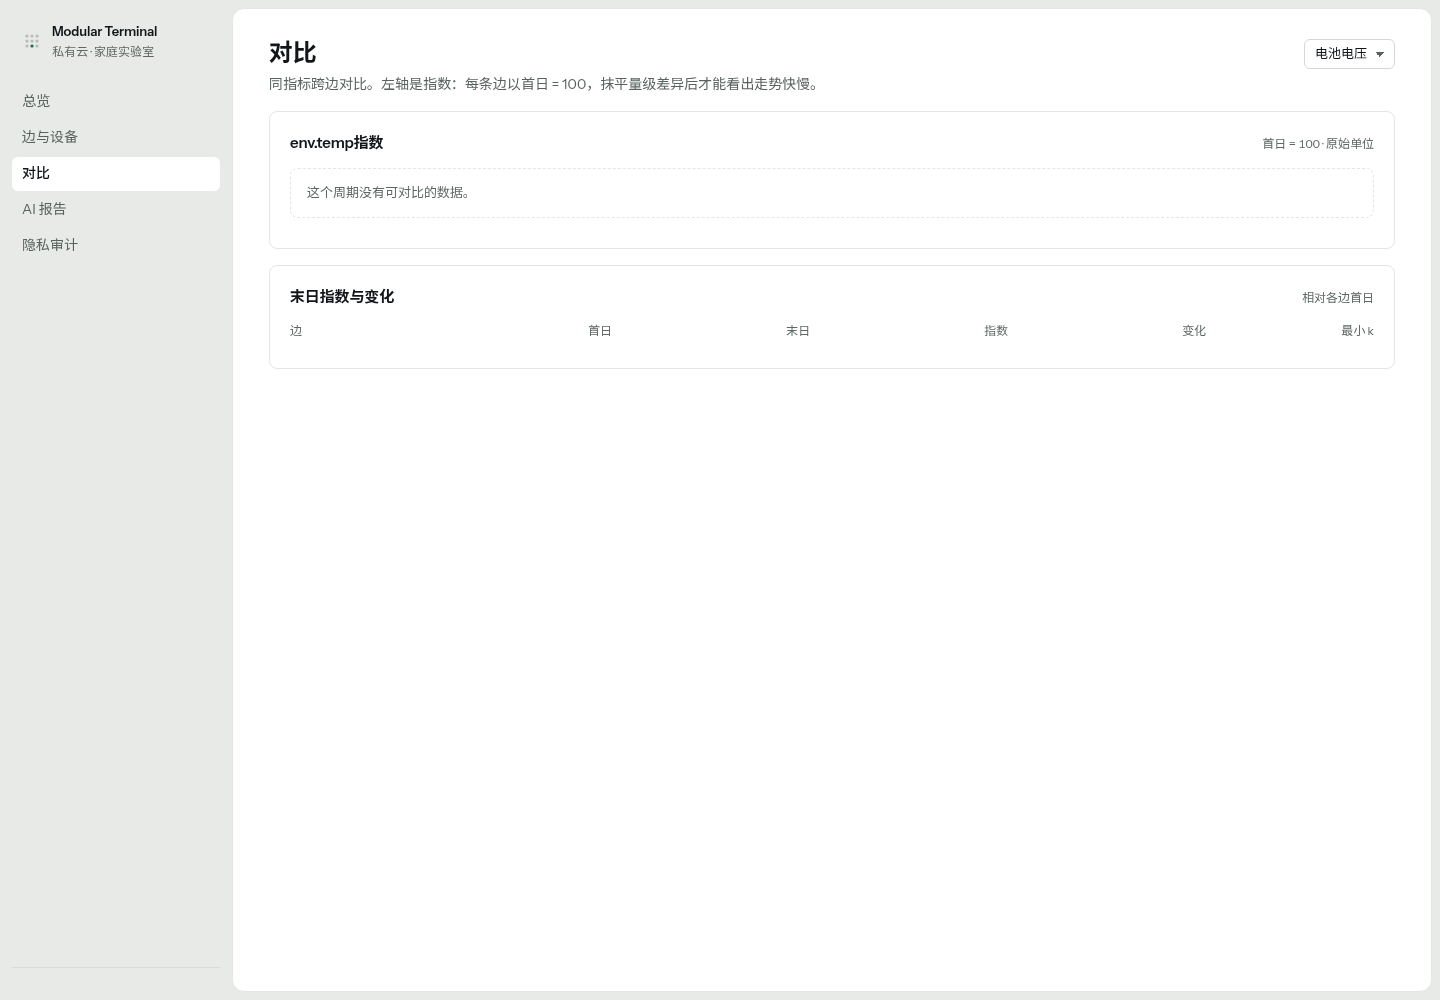
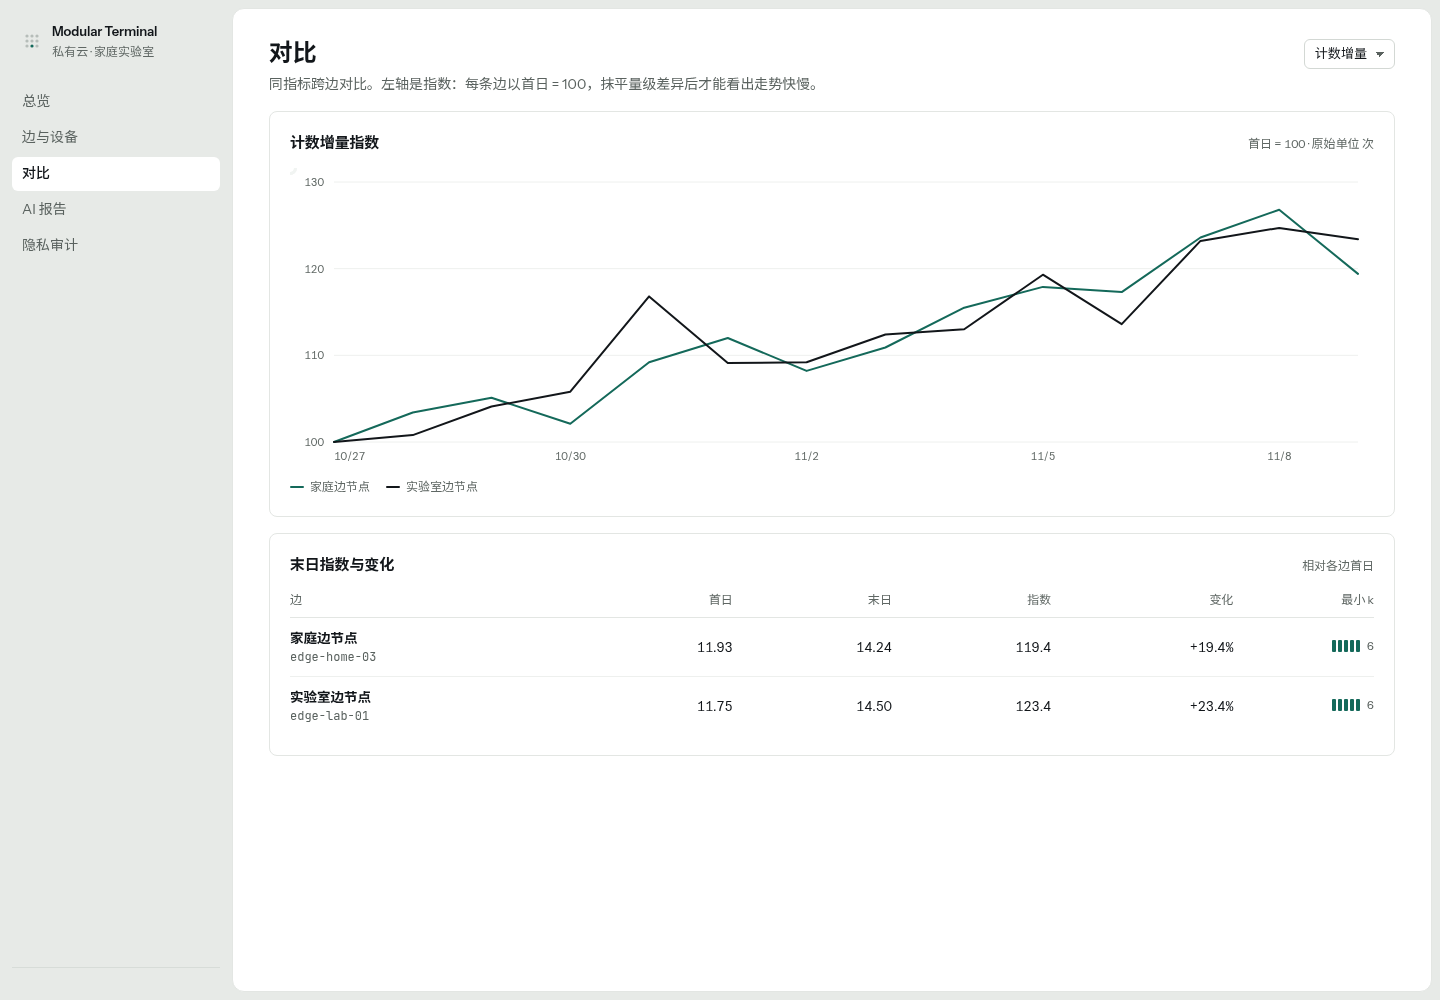
fix(cloud): 对比页默认指标不再写死，AI 措辞不再出现「上升 0.0」
- compareMetric 从 /meta 选覆盖面最广的指标，之前残留了 env.temp
- 变化量小于 1 时用百分比描述，避免「上升 0.0 次」
- 「设备日聚合」改成「指标日聚合」，与实际计数一致

diff --git a/cloud/static/app.js b/cloud/static/app.js
@@ -430,11 +430,22 @@ async function viewDevice(id) {
 
 /* ---------------------------------------------------------------- 对比 */
 
-let compareMetric = "env.temp";
+let compareMetric = null;   // 首次进入时从 /meta 取，不写死指标名
 
 async function viewCompare() {
   main.innerHTML = `<div class="title-row"><div><h1>对比</h1><p class="sub">读取中…</p></div></div>`;
   await ensureMeta().catch(() => {});
+  // 指标来自云端实际收到的数据；上次选的没了就退回第一个
+  if (!compareMetric || !(META?.metrics || []).some((m) => m.key === compareMetric)) {
+    // 默认选覆盖面最广的指标，不然常常只有一条边有数据
+    compareMetric = (META?.metrics || [])
+      .slice().sort((a, b) => (b.devices || 0) - (a.devices || 0))[0]?.key;
+  }
+  if (!compareMetric) {
+    main.innerHTML = `<div class="title-row"><div><h1>对比</h1>
+      <p class="sub">还没有任何指标入库。</p></div></div>`;
+    return;
+  }
 
   let data;
   try {

diff --git a/cloud/ai.py b/cloud/ai.py
@@ -117,13 +117,17 @@ def _rules(summary: dict[str, Any]) -> dict[str, Any]:
     hot = [m for m in ms if m["max_abs_z"] >= 2.5]
 
     direction = "上升" if top["delta"] >= 0 else "下降"
-    headline = f"{top['label']}本周期{direction} {abs(top['delta']):.1f} {top['unit']}".strip()
+    # 变化量小于 1 时用百分比说，别出现"上升 0.0 次"
+    if abs(top["delta"]) < 1:
+        headline = f"{top['label']}本周期变化 {top['pct']:+.1f}%"
+    else:
+        headline = f"{top['label']}本周期{direction} {abs(top['delta']):.1f} {top['unit']}".strip()
 
     parts = [
         f"过去 {summary['from']} 至 {summary['to']}，共 {summary['devices']} 台设备上报了 "
-        f"{sum(m['points'] for m in ms)} 个设备日聚合，覆盖 {len(ms)} 个指标。",
-        f"{top['label']}的日均值从周期前段的基线变化 {top['delta']:+.1f} {top['unit']}"
-        f"（{top['pct']:+.1f}%），峰值偏离 {top['max_abs_z']:.1f}σ，"
+        f"{sum(m['points'] for m in ms)} 个指标日聚合，覆盖 {len(ms)} 个指标。",
+        f"{top['label']}的日均值从周期前段的基线变化 "
+        f"{top['delta']:+.2f} {top['unit']}（{top['pct']:+.1f}%），峰值偏离 {top['max_abs_z']:.1f}σ，"
         f"是这一周期最值得看的一项。",
     ]
     if second:
